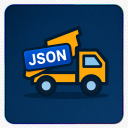
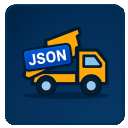
Prepare 0.1.1 release

Changed region(s): [[0.0312, 0.0312, 1.0, 1.0]]

diff --git a/CHANGELOG.md b/CHANGELOG.md
@@ -2,9 +2,9 @@
 
 All notable changes to JSON Dump will be documented in this file.
 
-## 0.1.0
+## 0.1.1
 
-- Re-optimized the extension icon to keep the packaged VSIX small for Marketplace distribution.
+- Refined Marketplace assets by updating the preview image and cleaning up the icon edge artifacts while keeping the packaged VSIX small.
 - Simplified the README content so the Marketplace listing stays focused on the extension itself.
 
 ## 0.0.5